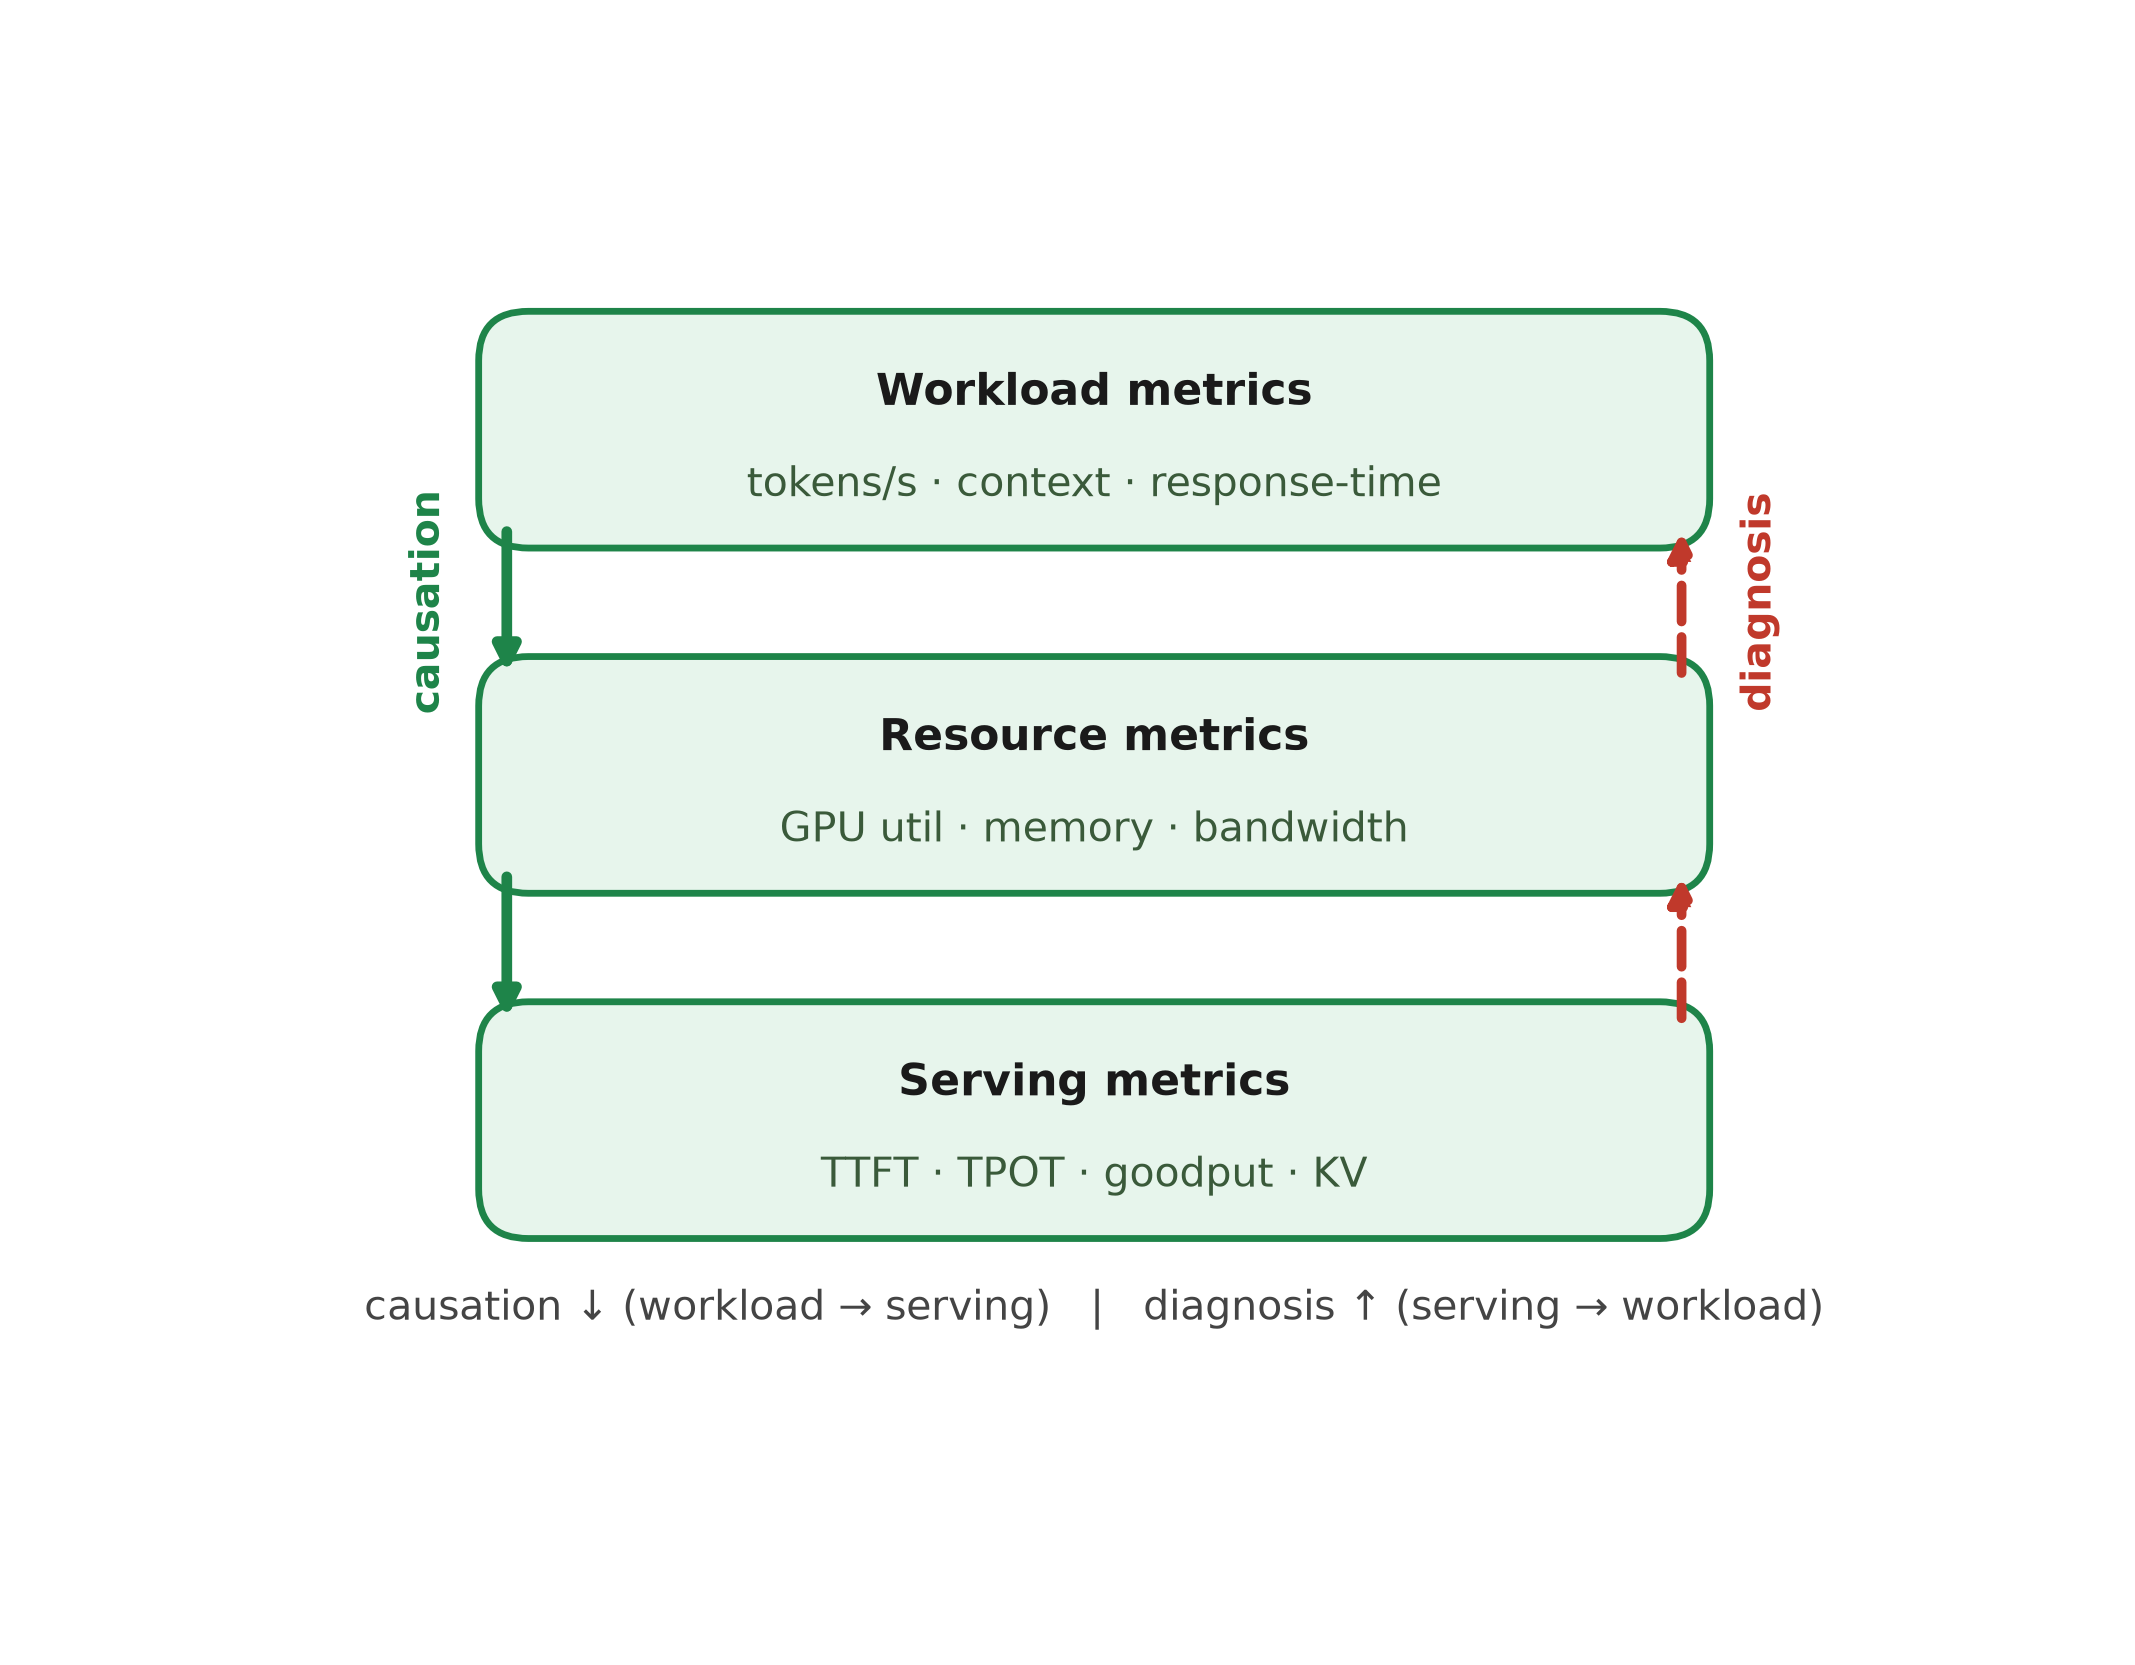
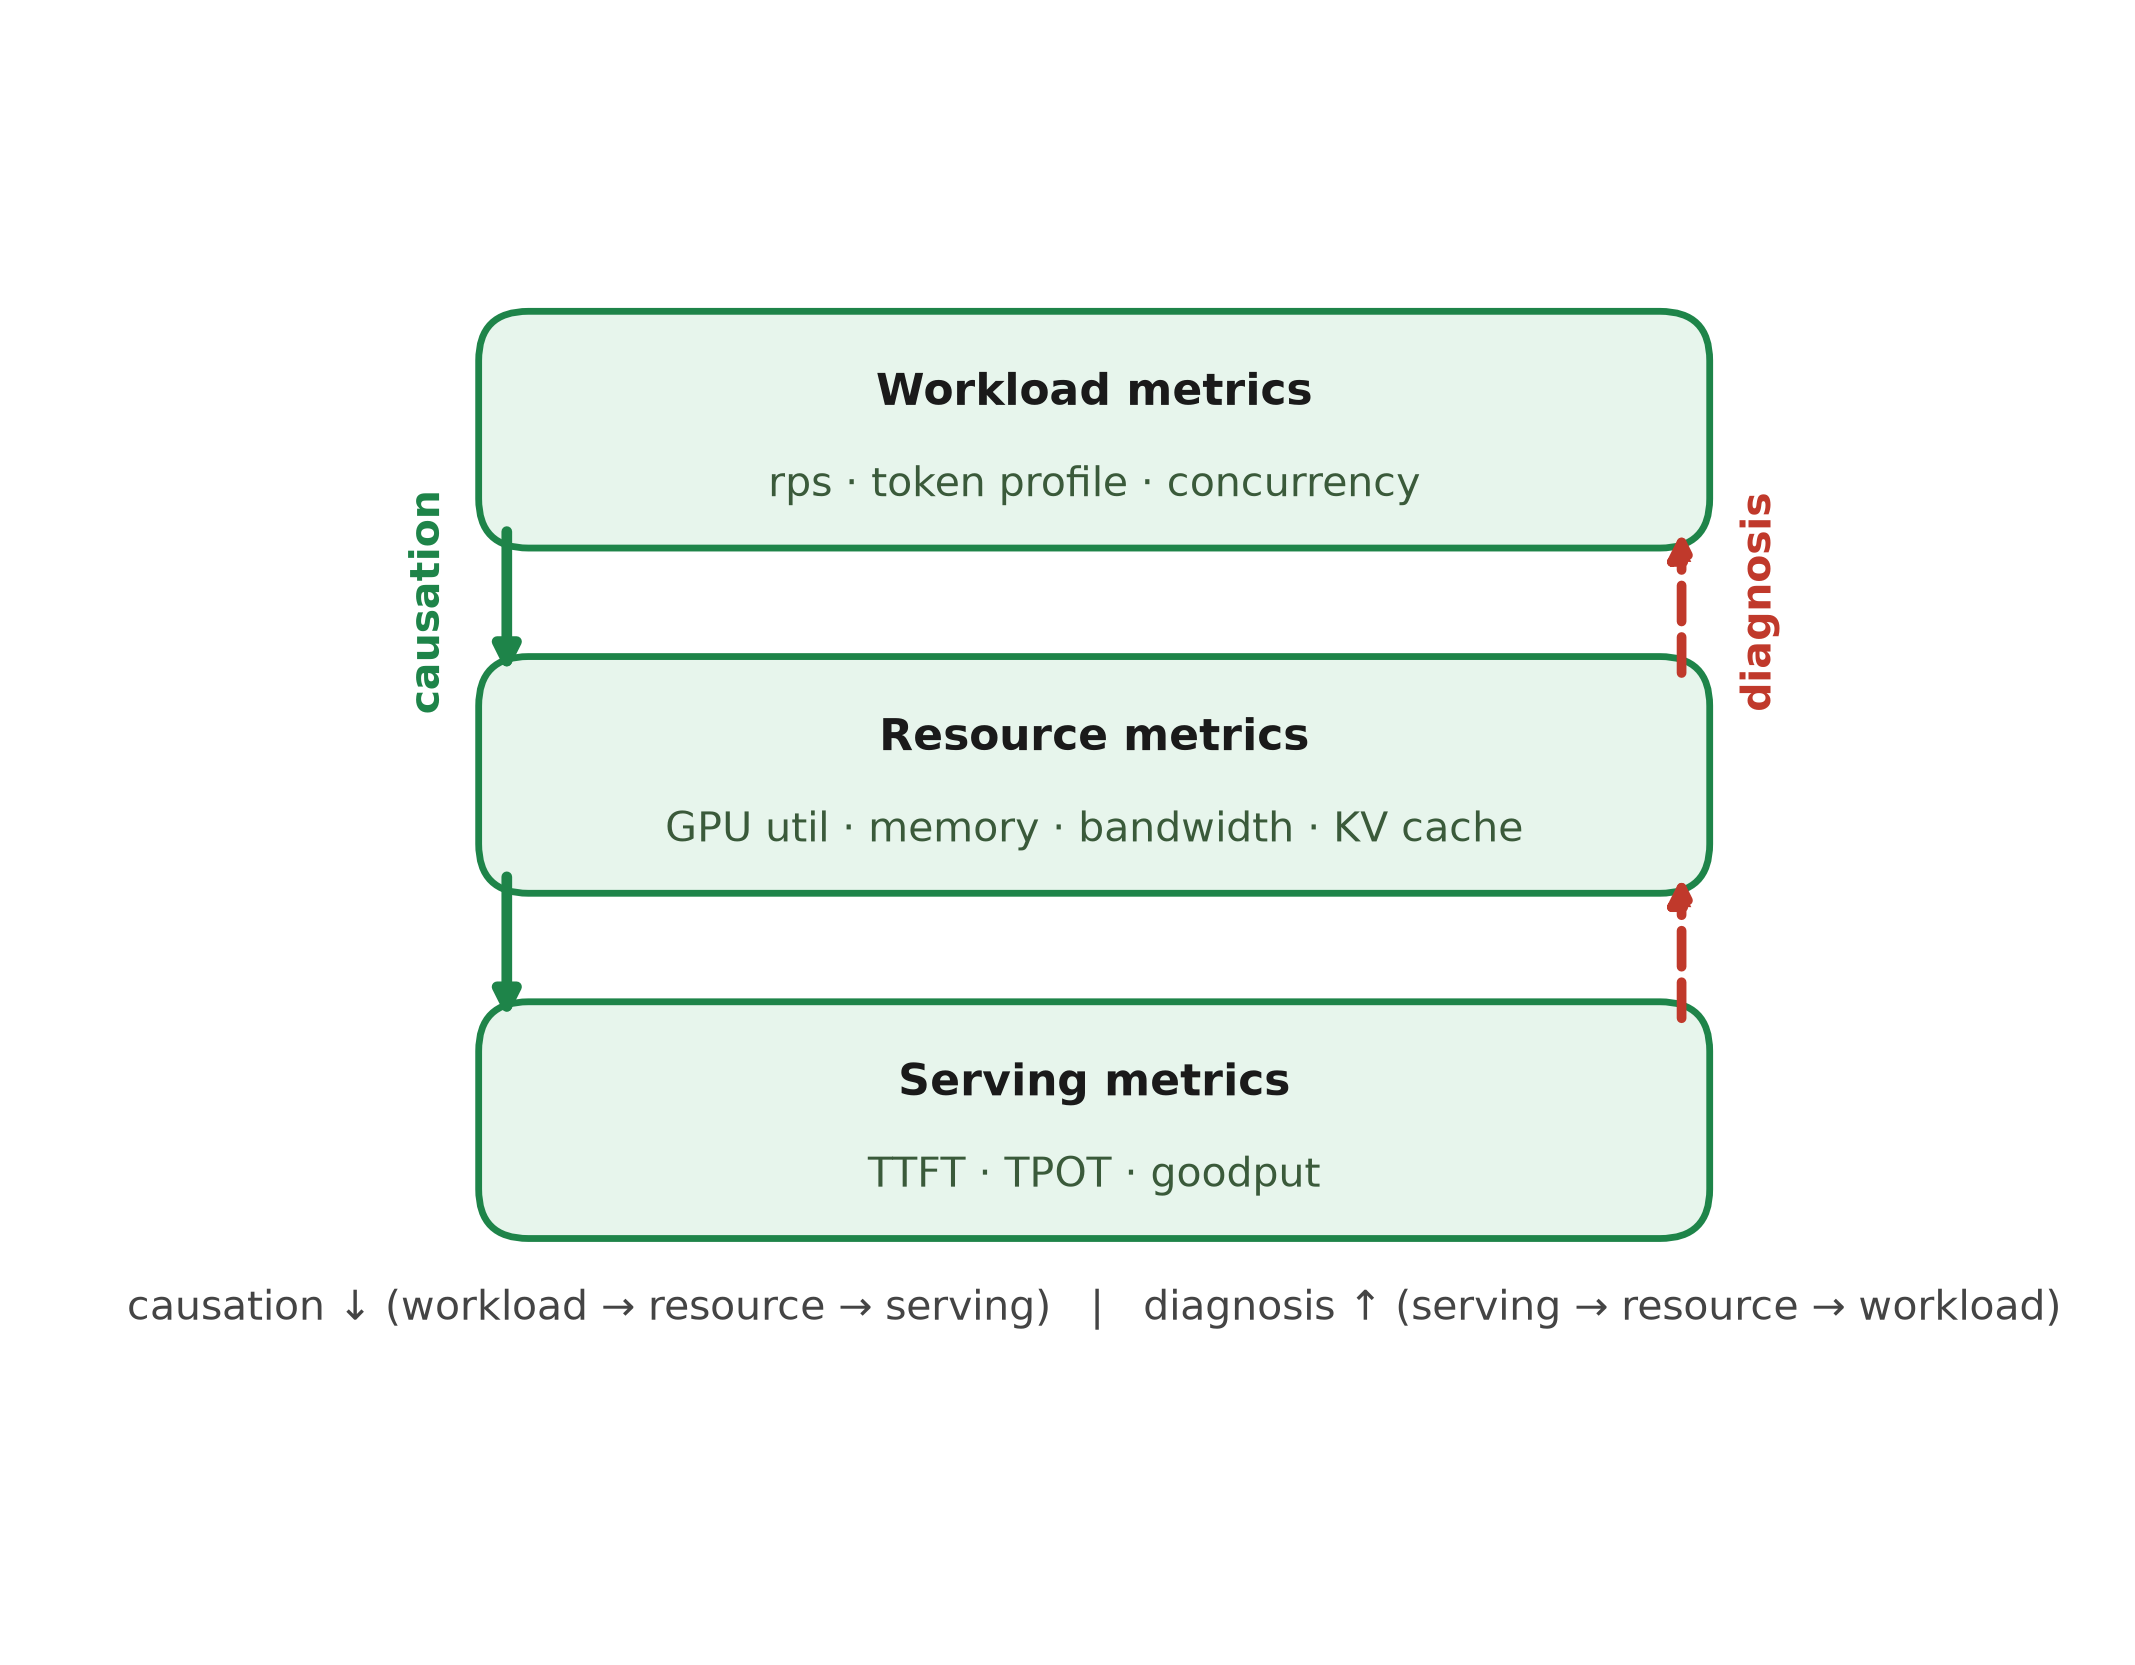
Loop5 figs: Fig 6.1 KV moved Serving->Resource card, response-time removed from Workload, footer legend 3-layer chain; vision-verified CLEAN, min 8.4pt

diff --git a/render/fig_ch6_diag.py b/render/fig_ch6_diag.py
@@ -20,9 +20,9 @@ fig._hermes_print_sized = True
 ax.set_xlim(0, 10); ax.set_ylim(0, 7.8); ax.axis('off')
 
 levels = [
-    ('Workload metrics', 'tokens/s · context · response-time', '#e7f5ec', '#1e8449', 6.4),
-    ('Resource metrics', 'GPU util · memory · bandwidth', '#e7f5ec', '#1e8449', 4.3),
-    ('Serving metrics', 'TTFT · TPOT · goodput · KV', '#e7f5ec', '#1e8449', 2.2),
+    ('Workload metrics', 'rps · token profile · concurrency', '#e7f5ec', '#1e8449', 6.4),
+    ('Resource metrics', 'GPU util · memory · bandwidth · KV cache', '#e7f5ec', '#1e8449', 4.3),
+    ('Serving metrics', 'TTFT · TPOT · goodput', '#e7f5ec', '#1e8449', 2.2),
 ]
 bw, bh = 7.4, 1.4
 xc = 5.0
@@ -50,8 +50,9 @@ ax.text(x_c-0.35, 5.35, 'causation', fontsize=8.4, ha='right', va='center', colo
 ax.text(x_d+0.35, 5.35, 'diagnosis', fontsize=8.4, ha='left', va='center', color='#c0392b', fontweight='bold',
         rotation=90)
 
-# legend
-ax.text(5.0, 1.05, 'causation ↓ (workload → serving)   |   diagnosis ↑ (serving → workload)',
+# Legend — the metric chain is three layers; a workload metric never maps directly
+# to a serving metric, it passes through the resource layer (§6.1).
+ax.text(5.0, 1.05, 'causation ↓ (workload → resource → serving)   |   diagnosis ↑ (serving → resource → workload)',
         ha='center', va='center', fontsize=8.4, color='#444')
 
 out = 'design/manuscript/chapter-06/figures/fig-06-0601.png'
